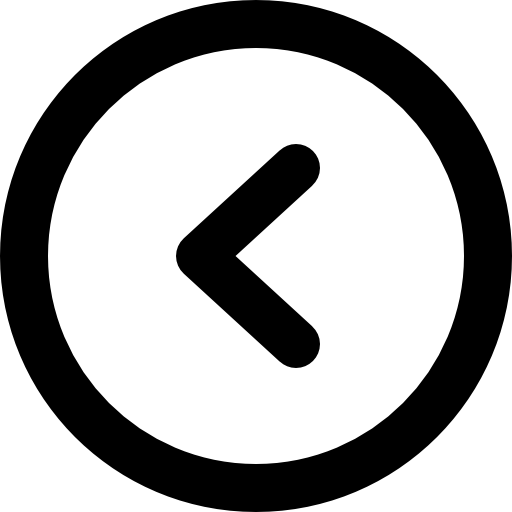
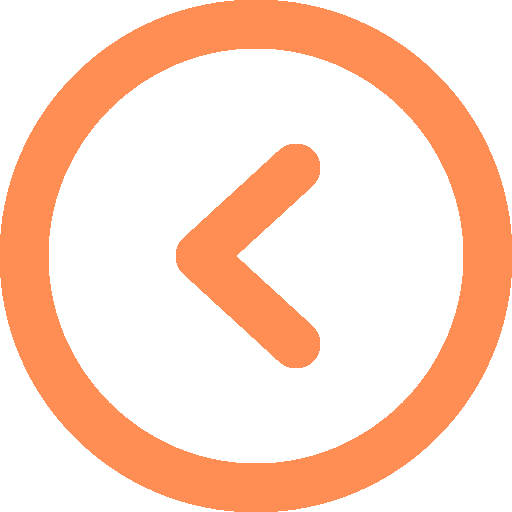
tablas de miCuenta con pestañas y cambio de color boton atras

diff --git a/public_html/js/scriptMiCuenta.js b/public_html/js/scriptMiCuenta.js
@@ -1,16 +1,41 @@
 $(document).ready(function () {
 //alert("entramos al js preparense");
-    setInterval(funcionConsultaTrayectosPasajero, 120000);
-    setInterval(funcionConsultaTrayectosConductor, 120000);
-    setInterval(funcionPeticiones, 120000);
     idtrayecto = 0;
     idsolic = 0;
     idBorrar = 0;
-    funcionConsultaTrayectosConductor();
     funcionConsultaTrayectosPasajero();
-    funcionPeticiones();
     rellenarDatos();
     //alert("0");
+    //
+   //////////////////Botones pestañas tablas /////////////////////////////////////////
+    $('#Pasajero').click(function () {
+        //alert("boton Pasajero");
+        funcionConsultaTrayectosPasajero();
+        setInterval(funcionConsultaTrayectosPasajero, 120000);
+        $('#selected').removeClass();
+        return false;
+    });
+    
+    $('#Conductor').click(function () {
+        //alert("boton Conductor");
+        funcionConsultaTrayectosConductor();
+        setInterval(funcionConsultaTrayectosConductor, 120000);
+        $('#selected').removeClass();
+        return false;
+    });
+    
+    $('#Peticiones').click(function () {
+        //alert("boton Peticiones");
+        funcionPeticiones();
+        setInterval(funcionPeticiones, 120000);
+        $('#selected').removeClass();
+        return false;
+    });
+
+
+
+
+
     //////////////////eliminar Cuenta/////////////////////////////////////////
     $('#borrarCuenta').click(function (e) {
         var mensaje = confirm("¿Estas seguro? \n Perderas todos tus datos,trayectos incluidos");
@@ -69,7 +94,7 @@ $(document).ready(function () {
     }
     ;
 //////////////////aceptar peticion/////////////////////////////////////////
-    $('#tablaPeticiones').on("click", "#aceptar", function () {
+    $('#tablaDinamica').on("click", "#aceptar", function () {
 //alert('boton aceptar ok');
         idtrayecto = $(this).attr("data-idtrayecto");
         idsolic = $(this).attr("data-idsolic");
@@ -182,8 +207,8 @@ $(document).ready(function () {
     function funcionConsultaTrayectosPasajero() {
         //alert('funcionnnnn')
         idusu = $('#idusuSession').text();
-        $('#tablaPasajero').html(' ');
-        $('#tablaPasajero').html('<div><img class="imgCarga" align="center" src="../IMG/carga.svg" width="130" height="130"></></div>');
+        $('#tablaDinamica').html(' ');
+        $('#tablaDinamica').html('<div><img class="imgCarga" align="center" src="../IMG/carga.svg" width="130" height="130"></></div>');
         $.ajax({
             type: 'POST',
             data: "submit=&idusu=" + idusu,
@@ -191,7 +216,7 @@ $(document).ready(function () {
             url: "../controlador/controlador_consulta_trayectos_pasajero.php",
             success: function (datos) {
                 //  alert(datos)
-                $('#tablaPasajero').fadeIn(1000).html("");
+                $('#tablaDinamica').fadeIn(1000).html("");
                 var tabla = "<br> \n\
               <table class='tabla'>";
                 tabla += " \n\
@@ -235,10 +260,10 @@ $(document).ready(function () {
                 tabla += "</table>";
                 //  alert(tabla)
 
-                $('#tablaPasajero').append(tabla).hide()
+                $('#tablaDinamica').append(tabla).hide()
                         .fadeIn('slow');
                 //////////////////colorear linear tr/////////////////////////////////////////
-                $('#tablaPasajero tr').each(function () {
+                $('#tablaDinamica tr').each(function () {
 
                     if ($(this).attr('data-aceptado') === '0') {
                         $(this).css('background-color', 'rgba(243, 31, 31, 0.4)');
@@ -260,8 +285,8 @@ $(document).ready(function () {
     function funcionConsultaTrayectosConductor() {
         //alert('funcionnnnn')
         idusu = $('#idusuSession').text();
-        $('#tablaConductor').html(' ');
-        $('#tablaConductor').html('<div><img class="imgCarga" align="center" src="../IMG/carga.svg" width="130" height="130"></></div>');
+        $('#tablaDinamica').html(' ');
+        $('#tablaDinamica').html('<div><img class="imgCarga" align="center" src="../IMG/carga.svg" width="130" height="130"></></div>');
         $.ajax({
             type: 'POST',
             data: "submit=&idusu=" + idusu,
@@ -269,7 +294,7 @@ $(document).ready(function () {
             url: "../controlador/controlador_consulta_trayectos_conductor.php",
             success: function (datos) {
                 //  alert(datos)
-                $('#tablaConductor').fadeIn(1000).html("");
+                $('#tablaDinamica').fadeIn(1000).html("");
                 var tabla = "<br> \n\
               <table class='tabla'>";
                 tabla += "\n\
@@ -303,7 +328,7 @@ $(document).ready(function () {
                                 });
                 tabla += "</table>";
                 //  alert(tabla)
-                $('#tablaConductor').append(tabla).hide()
+                $('#tablaDinamica').append(tabla).hide()
                         .fadeIn('slow');
                 return false;
             },
@@ -318,8 +343,8 @@ $(document).ready(function () {
     function funcionPeticiones() {
         //alert('funcionnnnn')
         idusu = $('#idusuSession').text();
-        $('#tablaPeticiones').html(' ');
-        $('#tablaPeticiones').html('<div><img class="imgCarga" align="center" src="../IMG/carga.svg" width="130" height="130"></></div>');
+        $('#tablaDinamica').html(' ');
+        $('#tablaDinamica').html('<div><img class="imgCarga" align="center" src="../IMG/carga.svg" width="130" height="130"></></div>');
         $.ajax({
             type: 'POST',
             data: "submit=&idusu=" + idusu,
@@ -327,7 +352,7 @@ $(document).ready(function () {
             url: "../controlador/controlador_consulta_trayectos_peticiones.php",
             success: function (datos) {
                 //  alert(datos)
-                $('#tablaPeticiones').fadeIn(1000).html("");
+                $('#tablaDinamica').fadeIn(1000).html("");
                 var tabla = "<br> \n\
               <table class='tabla'>";
                 tabla += "<th class='nombre'>Solicitante</th>\n\
@@ -363,7 +388,7 @@ $(document).ready(function () {
                                 });
                 tabla += "</table>";
                 //  alert(tabla)
-                $('#tablaPeticiones').append(tabla).hide()
+                $('#tablaDinamica').append(tabla).hide()
                         .fadeIn('slow');
                 return false;
             },
@@ -375,4 +400,6 @@ $(document).ready(function () {
     }
     ;
 });
+
+
 

diff --git a/public_html/css/styloMiCuenta.css b/public_html/css/styloMiCuenta.css
@@ -193,7 +193,12 @@ body{
 
     height: 150px;
     overflow: scroll;
+    overflow-y:auto;
+    overflow-x:auto;
 }
+
+
+
 /*imagen*/
 img {
     border: 1px solid #ddd;
@@ -258,4 +263,9 @@ a.button {
 
     text-decoration: none;
     color: initial;
+}
+
+.naranja{
+    color: orange;
+    
 }

diff --git a/public_html/vista/miCuenta.php b/public_html/vista/miCuenta.php
@@ -5,9 +5,9 @@ session_start();
 //echo ($_SESSION['loggedin']);
 //echo "<h1 id='prueba'>" + ($_SESSION['loggedin']) + "</h1>";
 if (isset($_SESSION['loggedin']) && $_SESSION['loggedin'] == true) {
-                echo "<h1 id='idusuSession' hidden>";
-                echo  ($_SESSION['idusu']);
-                echo "</h1>";
+    echo "<h1 id='idusuSession' hidden>";
+    echo ($_SESSION['idusu']);
+    echo "</h1>";
 } else {
     header('Location: ../vista/nolog.php');
     exit();
@@ -37,8 +37,8 @@ if (isset($_SESSION['loggedin']) && $_SESSION['loggedin'] == true) {
         <div>
             <div class="container auth">
                 <br><br>
-                
-                <h1 class="text-center">Mi cuenta </h1>
+
+                <h1 class="naranja text-center">Mi cuenta </h1>
                 <div id="big-form" class="well auth-box">
                     <a target="_blank" >
                         <img id="imagen" class="imagenPerfil" src="../img/imagenpredet.png"  alt="imagen"  align="right">
@@ -91,12 +91,14 @@ if (isset($_SESSION['loggedin']) && $_SESSION['loggedin'] == true) {
                                     <input id="imagenlink" name="textinput"  class="form-control input-md" type="text" required>
                                 </div>
                             </div>
+                            
                             <!-- Login-->
                             <div class="form-group login">
                                 <label class=" control-label" for="textinput">Login</label> <br><br>
                                 <div class="">
                                     <input id="user" name="textinput" placeholder="Usuario.." class="form-control input-md" type="text" required disabled="" >
                                     <input id="pass" name="textinput" placeholder="Contraseña.." class="form-control input-md" type="password" required >
+                                </div>
                                 </div>
                                 <br>
                                 <!-- Coche-->
@@ -110,42 +112,37 @@ if (isset($_SESSION['loggedin']) && $_SESSION['loggedin'] == true) {
                                     </div>
                                     <br>
                                 </div>
-                            </div>
+                            
 
                             <button type="button" id="modificar" name="singlebutton" class="btn btn-default">Guardar datos</button>
                             <button type="button" id="borrarCuenta" name="singlebutton" class="btn btn-default">Borrar cuenta</button>
                         </form>
                 </div>
                 <div id="big-form" class="well auth-box">
-                    <!-- Trayectos pasajero -->
-                    <div class="form-group">
-                        <h2 class=" " for="selectmultiple">Trayectos pasajero</h2>
-                        <div class="scroll">
-                            <div id="tablaPasajero">
+                        <div class="row">
+                            <div class="pestanas">
 
-                            </div>
-                        </div>
+                                <!-- Nav tabs -->
+                                <ul class="nav nav-tabs pestanas" role="tablist">
+                                    <li role="presentation" id="selected" class="active"><a href="#" class="naranja" aria-controls="" role="tab" data-toggle="tab" id="Pasajero" >Pasajero</a></li>
+                                    <li role="presentation"><a href="#" class="naranja" aria-controls="" role="tab" data-toggle="tab" id="Conductor">Conductor</a></li>
+                                    <li role="presentation"><a href="#" class="naranja" aria-controls="" role="tab" data-toggle="tab" id="Peticiones">Peticiones</a></li>
+                                </ul>
 
-                    </div>
-                    <!-- Trayectos conductor -->
-                    <div class="form-group">
-                        <h2 class="" for="selectmultiple">Trayectos conductor</h2>
-                        <div class="scroll">
-                            <div id="tablaConductor"> 
-                            </div>
-                        </div>
-                        <!-- Trayectos peticiones -->
-                        <div class="form-group">
-                            <h2 class="" for="selectmultiple">Peticiones</h2>
-                            <div class="scroll">
-                                <div id="tablaPeticiones">
-
+                                <!-- Tab panes -->
+                                <div class="tab-content">
+                                    <div role="tabpanel" class="tab-pane active" id="pasajero">...</div>
+                                    <div role="tabpanel" class="tab-pane" id="conductor">...</div>
+                                    <div role="tabpanel" class="tab-pane" id="peticiones">...</div>
                                 </div>
-
                             </div>
-
-                            </fieldset>
-
+                        </div>
+                    
+                    <!-- Tablas dinamicas -->
+                    <div class="form-group">
+                        <div class="scroll">
+                            <div id="tablaDinamica"> 
+                            </div>
                         </div>
                         <div class="clearfix"></div>
                     </div>
